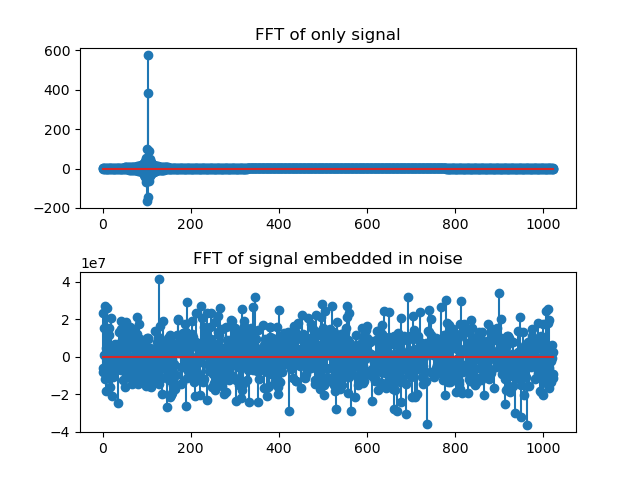
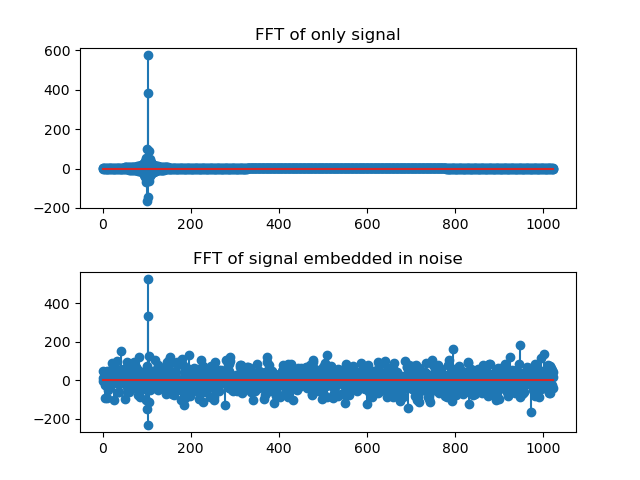
Æ for di og du får mi

diff --git a/main.py b/main.py
@@ -1,11 +1,12 @@
 import numpy as np
 import matplotlib.pyplot as plt
 import buggesmatteland as bml
+import math
 
 # ---------- Specifications ---------- #
 A = 1
-SNR = 60 # In dB
-SIGMA_SQUARED = (A**2)/(2*10**(-SNR/10))
+SNR = -10 # In dB
+SIGMA_SQUARED = (A**2)/(2*10**(SNR/10))
 T = 10**(-6) 
 N = 513
 n_0 = -256
@@ -28,8 +29,8 @@ CRLB_THETA = 12*(SIGMA_SQUARED)*((n_0**2)*N + 2*n_0*P + Q) / ((A**2)*(N**2)*((N*
 # ---------- Signals ---------- #
 
 # White complex Gaussian noise
-wReal = np.random.normal(0, SIGMA_SQUARED, size=N)
-wImag = np.random.normal(0, SIGMA_SQUARED, size=N)*1j
+wReal = np.random.normal(0, math.sqrt(SIGMA_SQUARED), size=N)
+wImag = np.random.normal(0, math.sqrt(SIGMA_SQUARED), size=N)*1j
 
 w = []
 for i in range(N):
